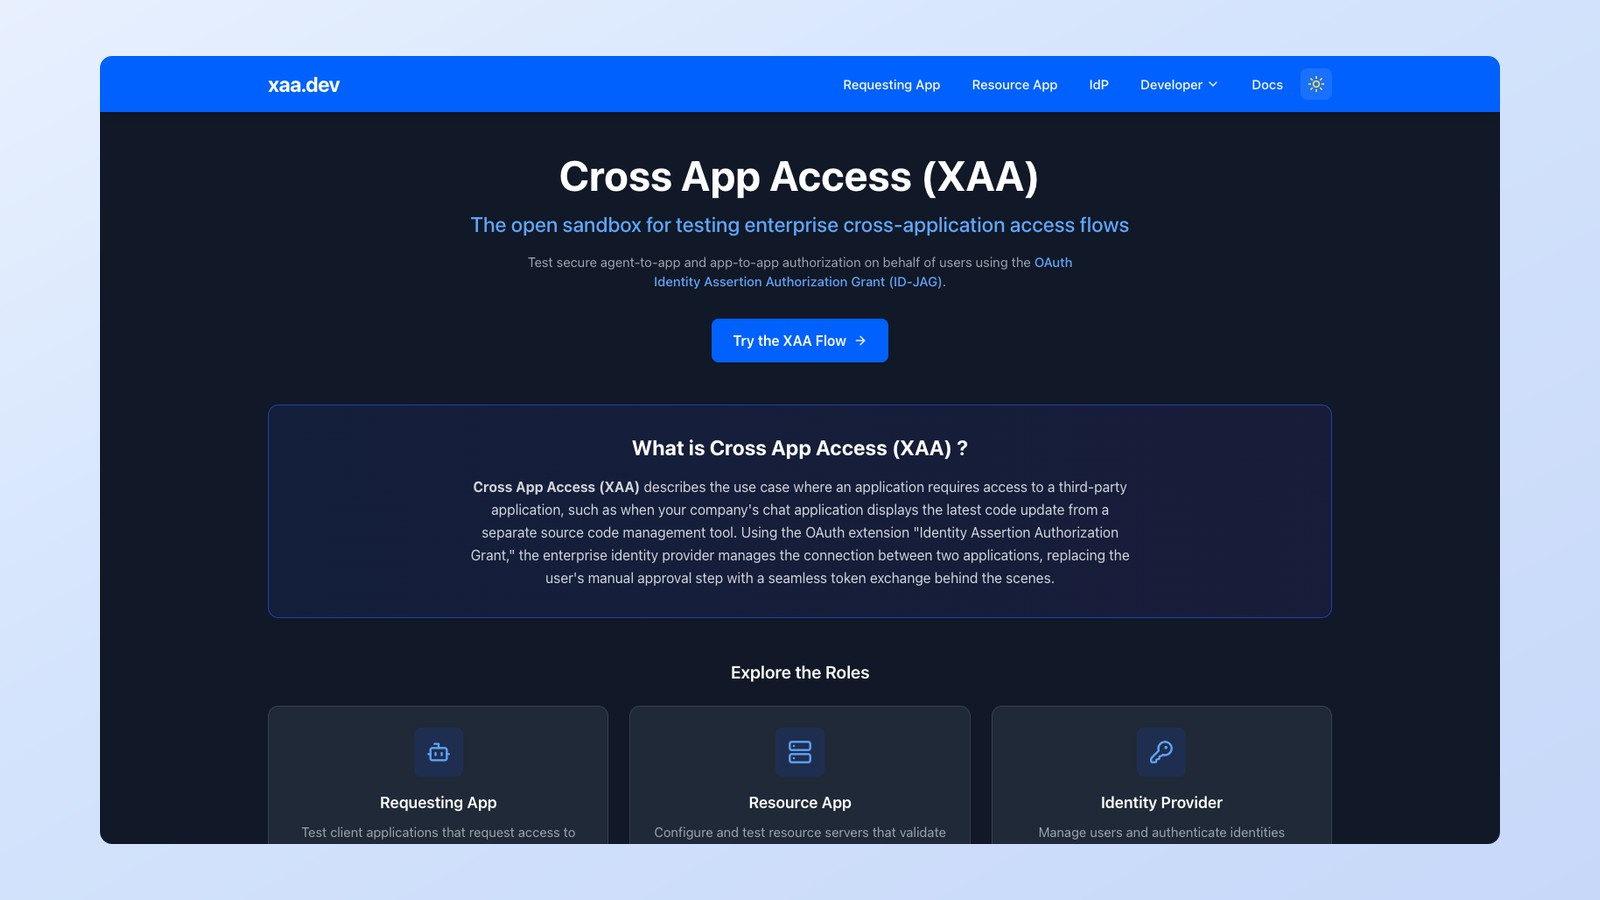
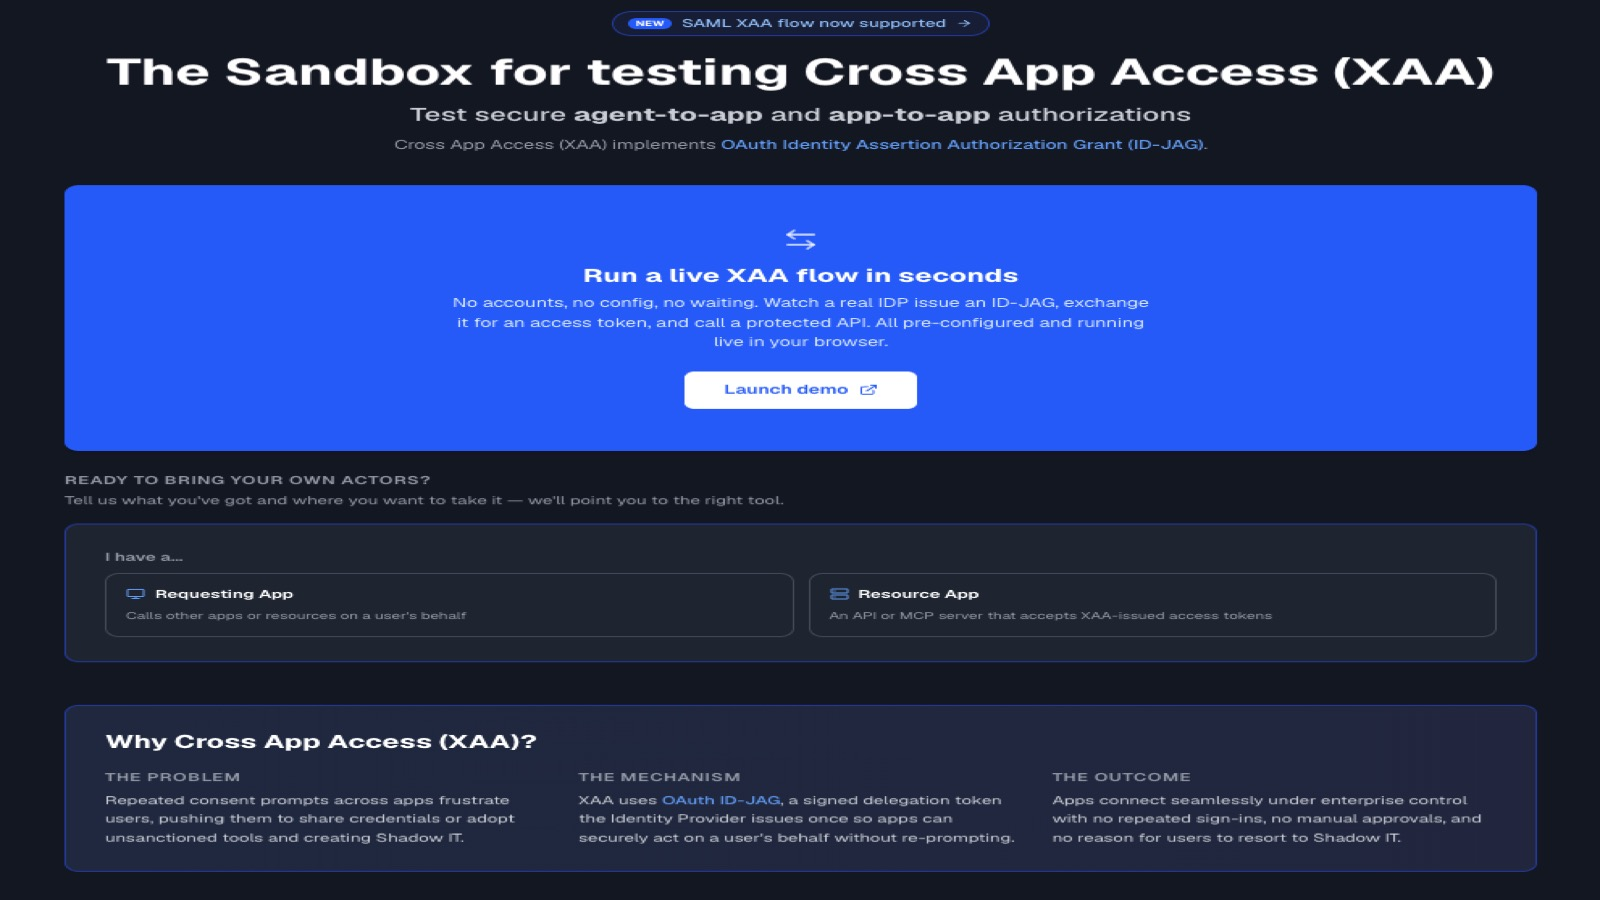
OKTA_1225260-blogs updates for new changes

diff --git a/_source/_posts/2026-01-20-xaa-dev-playground.md b/_source/_posts/2026-01-20-xaa-dev-playground.md
@@ -21,8 +21,6 @@ This is the problem **Cross App Access (XAA)** is designed to solve.
 
 Today, we're introducing **[xaa.dev](https://xaa.dev)**, a free, open playground that lets you explore Cross App Access end-to-end. **No local setup. No infrastructure to provision.** Just a working environment where you can see the protocol in action.
 
-{% img blog/xaa-dev-playground/xaa-dev-homepage.jpg alt:"xaa.dev playground homepage showing the Cross App Access flow" width:"800" %}{: .center-image }
-
 > **Note:** xaa.dev is currently in beta. We're actively developing new features for the next release, and your feedback helps shape what comes next.
 
 **Table of Contents**{: .hide }
@@ -32,7 +30,7 @@ Today, we're introducing **[xaa.dev](https://xaa.dev)**, a free, open playground
 
 ## What is Cross App Access?
 
-Cross App Access refers to a typical enterprise pattern: **one application accesses another application's resources on behalf of a user.**
+Cross App Access is a typical enterprise pattern: **one application accesses another application's resources on behalf of a user.**
 
 For example:
 
@@ -52,7 +50,7 @@ Instead of prompting users for consent, the **Identity Provider (IdP)** issues a
 
 The result:
 
-- No interactive consent screens making application access seamless for employees
+- No interactive consent screens, making application access seamless for employees
 - Clear, auditable trust boundaries
 - Complete administrative control over app-to-app access
 
@@ -73,7 +71,7 @@ Here's the challenge: to test XAA locally, you'd need to spin up:
 
 That's hours (or days) of configuration before you can even see a single token exchange. Most developers give up before getting to the interesting part.
 
-**xaa.dev changes that.**
+**xaa.dev changes that**
 
 We pre-configured all the components so you can focus on understanding the flow, not debugging dev environments. Go from zero to a working XAA token exchange in under 60 seconds.
 
@@ -93,10 +91,15 @@ See the other side of the transaction. Watch how a resource server validates the
 We've built a simulated IdP with pre-configured test users. Log in, see how ID-JAGs are minted, and inspect the cryptographic claims that make XAA secure.
 
 ### Resource MCP Server
-Connect your AI agents using the Model Context Protocol (MCP). The playground provides a ready-to-use MCP server that acts as a resource application, letting you test how AI agents can securely access protected resources through the Cross App Access flow.
+Connect your AI agents using the Model Context Protocol (MCP). The playground provides a ready-to-use MCP server that acts as a resource application, letting you to test how AI agents can securely access protected resources through the Cross App Access flow.
 
-### Bring your own Requesting App
-The built-in Requesting App is great for learning, but the real power comes when you test with your own application, whether it's a traditional app or an MCP client. [Register a client](https://xaa.dev/developer/register) on the playground, grab the configuration, and integrate it into your local app. This lets you validate your XAA implementation against a working IdP and Resource App without spinning up your own infrastructure. The [playground documentation](https://xaa.dev/docs) walks you through the setup step-by-step.
+### Bring your own Apps
+The built-in Requesting App and Resource App are great for learning, but the real power comes when you test with your own application, whether it's a traditional app, an API, or an MCP client. [xaa.dev](https://xaa.dev) gives you two ways to do that, for each role:
+
+- **Requesting App** – [Register it with xaa.dev's IdP](https://xaa.dev/developer/register) to get credentials and run the full flow, or [test it against a hosted Resource](https://xaa.dev/developer/test-requesting-app) if you already mint your own ID-JAGs.
+- **Resource App** – [Register it with xaa.dev's IdP](https://xaa.dev/developer/test-resource) to verify your API accepts XAA tokens, or [test it against a hosted Requesting App](https://xaa.dev/developer/test-resource-app) end-to-end.
+
+Each path supports both **OIDC** and **SAML** identity assertions, so you can validate your implementation regardless of how your organization issues identity. This lets you validate your XAA implementation without spinning up your own infrastructure. The [playground documentation](https://xaa.dev/docs) walks you through the setup step by step.
 
 ## How to get started
 
